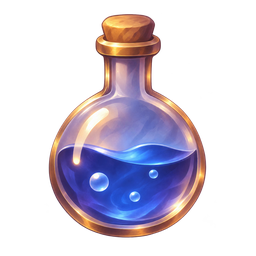
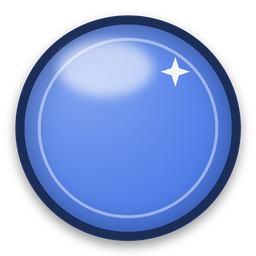
Version 6.6.0 : icônes des familles en ronds de couleur
Claude-Session: https://claude.ai/code/session_01GeB1pm7GgfYAmUdKEfk1z2

diff --git a/version.js b/version.js
@@ -9,9 +9,12 @@
      X = grosse refonte, Y = nouvelle fonction, Z = petite correction
    ========================================================= */
 
-const VERSION = { numero: '6.5.1', date: '2026-11-08' };
+const VERSION = { numero: '6.6.0', date: '2026-11-09' };
 
 const HISTORIQUE = [
+  { numero: '6.6.0', date: '2026-11-09', nouveautes: [
+    "Les icônes des familles deviennent des ronds brillants de la couleur de chaque famille (préparation, main, rappel des instables, légende des fumées).",
+  ]},
   { numero: '6.5.1', date: '2026-11-08', nouveautes: [
     "Main ✋ : les cartes défaussées pendant la manche sont grisées et ne peuvent plus être choisies.",
   ]},
